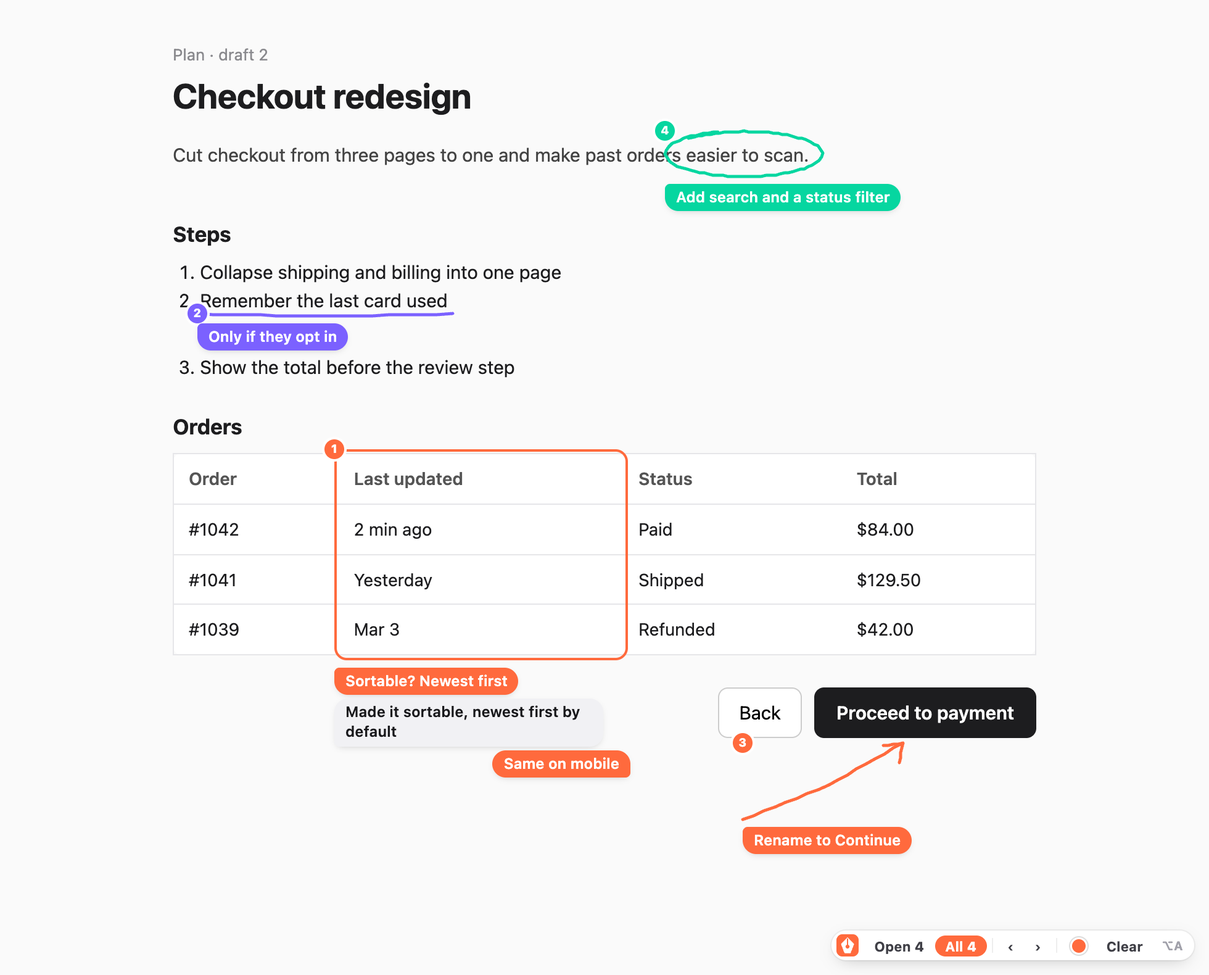
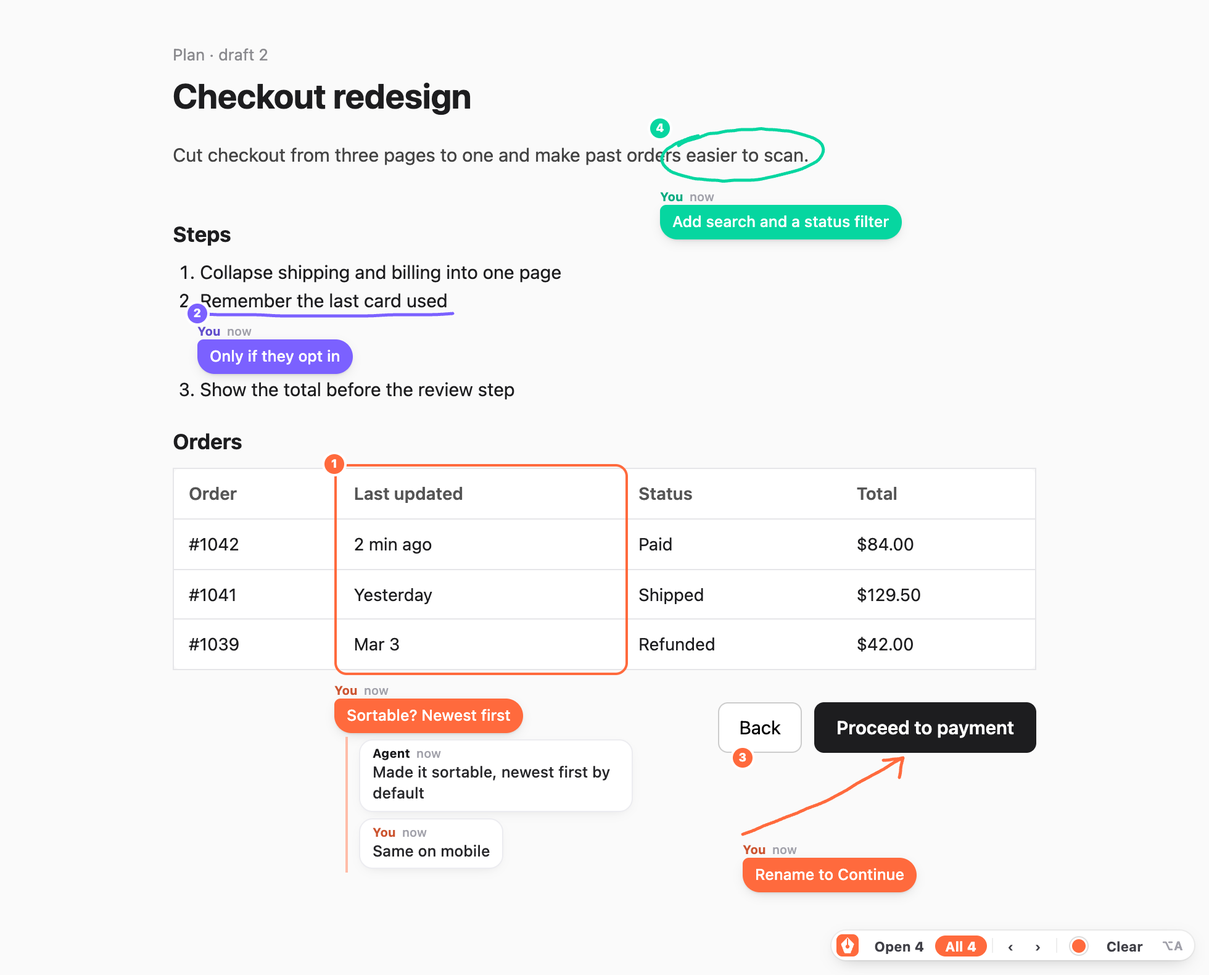
Thread rail for replies, smoother strokes, README hero
- Threads: the note stays a bubble in the mark's color; agent replies and
  follow-ups hang off a rail below it, labeled You or Agent with how long
  ago each was sent. The reply box lines up with the rail.
- Freehand strokes render as smooth curves through the recorded points
  (saved points are unchanged).
- README: new hero (dashboard plus agent terminal) as docs/hero.png, so
  cached copies of the old screenshot.png don't show; checkout sample
  re-rendered with a hand-drawn circle.
- design/bubble-options.html: the thread study (#4 chosen).

diff --git a/design/bubble-options.html b/design/bubble-options.html
@@ -1,0 +1,224 @@
+<!doctype html>
+<html lang="en">
+<head>
+<meta charset="utf-8">
+<meta name="viewport" content="width=device-width, initial-scale=1">
+<title>annot bubble variations</title>
+<link rel="preconnect" href="https://fonts.googleapis.com">
+<link rel="preconnect" href="https://fonts.gstatic.com" crossorigin>
+<link href="https://fonts.googleapis.com/css2?family=Inter:wght@500;700;800&display=swap" rel="stylesheet">
+<style>
+  /* ---------- review page ---------- */
+  :root { --ink: #1d1d1f; --muted: #6e6e73; --line: #e5e5ea; --page: #f5f5f7; --mc: #ff6a3d; --mon: #fff; }
+  * { box-sizing: border-box; }
+  body { margin: 0; background: var(--page); color: var(--ink); font: 14px/1.45 Inter, system-ui, sans-serif; }
+  header { max-width: 1180px; margin: 0 auto; padding: 32px 20px 8px; }
+  h1 { font: 800 26px/1.2 Inter, sans-serif; margin: 0 0 6px; letter-spacing: -.01em; }
+  .lede { margin: 0; color: var(--muted); max-width: 800px; }
+  .colors { display: flex; align-items: center; gap: 8px; margin-top: 14px; font-size: 12.5px; color: var(--muted); }
+  .colors button { all: unset; width: 16px; height: 16px; border-radius: 50%; cursor: pointer; }
+  .colors button.sel { box-shadow: 0 0 0 2px var(--page), 0 0 0 3.5px var(--ink); }
+  .colors button:focus-visible { outline: 2px solid var(--ink); outline-offset: 3px; }
+  main { max-width: 1180px; margin: 0 auto; padding: 16px 20px 60px; display: grid; grid-template-columns: repeat(auto-fill, minmax(560px, 1fr)); gap: 16px; }
+  .card { background: #fff; border: 1px solid var(--line); border-radius: 16px; padding: 16px; }
+  .card h2 { font: 700 15px/1.2 Inter, sans-serif; margin: 0; display: flex; gap: 8px; align-items: baseline; }
+  .card h2 .n { font: 700 11px Inter, sans-serif; color: var(--muted); min-width: 18px; }
+  .card p { margin: 3px 0 12px 26px; color: var(--muted); font-size: 12.5px; min-height: 36px; }
+
+  /* ---------- the mock page every card shows ---------- */
+  .scene { position: relative; width: 528px; height: 470px; margin: 0 auto; border-radius: 12px; background: #fff; box-shadow: 0 0 0 1px #ececef;
+    color: #27272a; font: 13px/1.4 system-ui, sans-serif; }
+  .mock > * { position: absolute; }
+  .mock h3 { left: 20px; top: 12px; margin: 0; font: 650 17px/1.3 system-ui, sans-serif; }
+  .mock .btn { left: 360px; top: 50px; width: 100px; height: 30px; display: grid; place-items: center; border: 1px solid #d4d4d8; border-radius: 7px; font-size: 12.5px; font-weight: 500; }
+  .mock table { left: 20px; top: 50px; width: 270px; border-collapse: collapse; font-size: 12.5px; }
+  .mock th, .mock td { height: 28px; padding: 0 10px; text-align: left; border-top: 1px solid #f0f0f1; }
+  .mock th { border-top: 0; background: #fafafa; color: #71717a; font-weight: 600; }
+  .mock td:last-child, .mock th:last-child { text-align: right; }
+  .mock col.o { width: 80px; } .mock col.d { width: 100px; } .mock col.t { width: 90px; }
+
+  /* ---------- overlay: boxes and numbers as in extension/overlay.js ---------- */
+  .box { position: absolute; box-sizing: border-box; border: 2px solid var(--c); border-radius: 10px; }
+  .num { position: absolute; width: 16px; height: 16px; margin: -8px 0 0 -8px; border-radius: 50%; box-shadow: 0 0 0 2px #fff;
+    background: var(--c); color: var(--on); font: 800 9.5px/16px system-ui, sans-serif; text-align: center; }
+  .mark.resolved .box, .mark.resolved .num { opacity: .45; }
+
+  /* ---------- Today: the thread exactly as overlay.js draws it ---------- */
+  .thread { position: absolute; display: flex; flex-direction: column; align-items: flex-start; gap: 3px; width: max-content; max-width: 240px;
+    font: 600 12px/1.35 system-ui, sans-serif; --ub: var(--c); --ut: var(--on); }
+  .thread.wide { width: 240px; }
+  .resolved .thread { --ub: color-mix(in srgb, var(--c) 28%, #fff); --ut: #3f3f46; }
+  .msg, .body { display: contents; }
+  .av, .who, .more, .head { display: none; }
+  .b { position: relative; max-width: 200px; padding: 3px 9px; border-radius: 11px; box-shadow: 0 2px 6px -3px rgba(0,0,0,.25); white-space: pre-wrap; overflow-wrap: anywhere; }
+  .you .b { background: var(--ub); color: var(--ut); }
+  .you.first .b { border-top-left-radius: 4px; }
+  .you:not(.first) .b { align-self: flex-end; border-bottom-right-radius: 4px; }
+  .agent .b { border-bottom-left-radius: 4px; background: #f1f1f4; color: #18181b; }
+  .state { color: #16a34a; font-size: 10px; font-weight: 800; }
+
+  /* ---------- r: the refined base most variations build on ---------- */
+  .r .thread { gap: 4px; font: 500 12.5px/1.4 system-ui, sans-serif; }
+  .r .thread.wide { width: 244px; }
+  .r .b { max-width: 204px; padding: 5px 10px 5px; border-radius: 14px; box-shadow: 0 1px 1px rgba(0,0,0,.05), 0 3px 10px -4px rgba(0,0,0,.22); }
+  .r .you.first .b { border-top-left-radius: 5px; }
+  .r .you:not(.first) .b { border-bottom-right-radius: 5px; }
+  .r .agent .b { border-bottom-left-radius: 5px; background: #fff; color: #27272a; box-shadow: 0 0 0 1px #e6e6ea, 0 3px 10px -4px rgba(0,0,0,.16); }
+  .r .state { display: inline-flex; align-items: center; gap: 3px; margin-top: 1px; padding: 1px 8px 1px 6px; border-radius: 999px;
+    background: #e8f8ee; color: #15803d; font: 700 10.5px/1.5 system-ui, sans-serif; }
+
+  /* 2 Pointer: the first note points up at the mark it belongs to. */
+  .v2 .thread { margin-top: 6px; }
+  .v2 .you.first .b { border-top-left-radius: 14px; }
+  .v2 .you.first .b::before { content: ''; position: absolute; left: 11px; top: -7px; border: 7px solid transparent; border-top: 0; border-bottom-color: var(--ub); }
+
+  /* 3 Agent badge: a small terminal badge beside every agent reply. */
+  .v3 .agent { display: flex; align-items: flex-end; gap: 5px; }
+  .v3 .av { display: grid; place-items: center; flex: none; width: 18px; height: 18px; margin-bottom: 2px; border-radius: 50%; background: #1d1d1f; color: #fff; }
+  .v3 .av svg { width: 12px; height: 12px; }
+  .v3 .resolved .av { background: #16a34a; }
+  .v3 .state { margin-left: 23px; }
+
+  /* 4 Thread rail: the note is the bubble; replies hang off a rail in the mark's color, labeled and timed. */
+  .v4 .thread { gap: 0; font: 500 12.5px/1.4 system-ui, sans-serif; }
+  .v4 .thread.wide { width: max-content; }
+  .v4 .b { padding: 5px 10px; border-radius: 14px; box-shadow: 0 1px 1px rgba(0,0,0,.05), 0 3px 10px -4px rgba(0,0,0,.22); }
+  .v4 .you.first .b { margin-bottom: 3px; border-top-left-radius: 5px; }
+  .v4 .msg:not(.first) { display: block; margin-left: 9px; padding: 3px 0 4px 10px; border-left: 2px solid color-mix(in srgb, var(--c) 45%, #fff); }
+  .v4 .msg:not(.first) .body { display: block; width: max-content; max-width: 200px; padding: 4px 10px 5px; border-radius: 10px; background: #fff; box-shadow: 0 0 0 1px #ececf0, 0 3px 10px -5px rgba(0,0,0,.18); }
+  .v4 .msg:not(.first) .b { all: unset; display: block; white-space: pre-wrap; color: #27272a; }
+  .v4 .who { display: block; font: 700 10px/1.3 system-ui, sans-serif; color: #18181b; }
+  .v4 .you .who { color: color-mix(in srgb, var(--c) 80%, #000); }
+  .v4 time { margin-left: 5px; color: #a1a1aa; font-weight: 500; }
+  .v4 .resolved .msg:not(.first) { border-left-color: #d4d4d8; }
+  .v4 .state { margin: 0 0 0 9px; padding: 3px 0 0 12px; border-left: 2px solid #d4d4d8; }
+
+  /* 5 Comment card: one card per mark, with its status on top. */
+  .v5 .thread { gap: 0; width: 256px; padding: 3px 0 2px; border-radius: 12px; background: #fff;
+    box-shadow: inset 0 3px 0 var(--c), 0 0 0 1px #e6e6ea, 0 8px 20px -10px rgba(0,0,0,.3); font: 500 12px/1.4 system-ui, sans-serif; }
+  .v5 .resolved .thread { width: max-content; max-width: 168px; box-shadow: inset 0 3px 0 color-mix(in srgb, var(--c) 40%, #fff), 0 0 0 1px #e6e6ea, 0 8px 20px -10px rgba(0,0,0,.3); }
+  .v5 .head { display: flex; align-items: center; gap: 6px; padding: 7px 10px 2px; color: #a1a1aa; font: 600 10.5px/1.4 system-ui, sans-serif; }
+  .v5 .chip { padding: 0 7px; border-radius: 999px; background: color-mix(in srgb, var(--c) 14%, #fff); color: color-mix(in srgb, var(--c) 75%, #000); font-weight: 700; }
+  .v5 .chip.ok { background: #e8f8ee; color: #15803d; }
+  .v5 .msg { display: block; align-self: stretch; padding: 6px 10px; }
+  .v5 .msg + .msg { border-top: 1px solid #f1f1f3; }
+  .v5 .body { display: block; }
+  .v5 .who { display: block; color: #18181b; font: 700 10.5px/1.4 system-ui, sans-serif; }
+  .v5 .you .who { color: color-mix(in srgb, var(--c) 80%, #000); }
+  .v5 time { margin-left: 5px; color: #a1a1aa; font-weight: 500; }
+  .v5 .b { all: unset; display: block; white-space: pre-wrap; color: #3f3f46; }
+  .v5 .you.first .b { color: #18181b; font-weight: 600; font-size: 12.5px; }
+  .v5 .state { display: none; }
+
+  /* 6 Tinted: agent replies take a wash of the mark's color, so each thread reads as one piece. */
+  .v6 .agent .b { background: color-mix(in srgb, var(--c) 10%, #fff); color: #27272a;
+    box-shadow: 0 0 0 1px color-mix(in srgb, var(--c) 24%, #fff), 0 3px 10px -4px rgba(0,0,0,.14); }
+  .v6 .resolved .agent .b { background: #f6f6f7; box-shadow: 0 0 0 1px #e6e6ea; }
+
+  /* 7 Outline: your notes are outlined like the box; the agent's replies are solid ink, so new answers stand out. */
+  .v7 .you .b { background: #fff; color: #18181b; box-shadow: inset 0 0 0 1.5px var(--c), 0 3px 10px -4px rgba(0,0,0,.18); }
+  .v7 .agent .b { background: #1d1d1f; color: #f4f4f5; box-shadow: 0 3px 10px -4px rgba(0,0,0,.35); }
+  .v7 .resolved .you .b { color: #52525b; box-shadow: inset 0 0 0 1.5px color-mix(in srgb, var(--c) 40%, #fff); }
+  .v7 .resolved .agent .b { background: #52525b; }
+
+  /* 8 Latest only: the note and the last exchange; older messages fold into a pill. */
+  .v8 .old { display: none; }
+  .v8 .expanded .old { display: contents; }
+  .v8 .more { all: unset; display: block; margin: 0 0 0 10px; padding: 0 8px; border-radius: 999px; background: #fff; color: #71717a; cursor: pointer;
+    box-shadow: 0 0 0 1px #e4e4e7; font: 700 10px/17px system-ui, sans-serif; }
+  .v8 .more:hover { color: #18181b; }
+  .v8 .more:focus-visible { outline: 2px solid var(--c); outline-offset: 2px; }
+</style>
+</head>
+<body>
+<header>
+  <h1>annot: conversation bubbles</h1>
+  <p class="lede">The thread under a mark, eight ways. Every card shows the same page: <b>#2</b> is open, with two rounds of back and forth and a new follow-up from you; <b>#3</b> is resolved. <b>Today</b> was the overlay before; <b>#4 Thread rail is the one chosen</b> and is what the overlay draws now. 1 refines it (lighter type, softer shadows, white agent replies, a resolved chip) and most of the others build on 1. Nothing here changes what the agent sees; it's all drawing.</p>
+  <div class="colors" id="colors">Color of #2:</div>
+</header>
+<main id="cards"></main>
+<script>
+  const V = [
+    { key: '', name: 'Today', n: 'now', idea: 'As overlay.js draws it: heavy 600 type, gray agent replies, a green "Resolved" line.' },
+    { key: 'r', name: 'Refined', idea: 'Same layout. Regular-weight type, a bit more padding and rounder corners, a softer shadow, white agent replies with a hairline, and a resolved chip.' },
+    { key: 'r v2', name: 'Pointer', idea: 'The first note gets a small pointer up at its mark, so it reads as attached to it rather than floating near it.' },
+    { key: 'r v3', name: 'Agent badge', idea: 'A small terminal badge beside each agent reply, so who said what never depends on left/right alignment. Turns green once resolved.' },
+    { key: 'v4', name: 'Thread rail', idea: 'Chosen. Only your note is a bubble. Replies hang off a rail in the mark\'s color, each labeled You or Agent with its time, like a chat thread.' },
+    { key: 'v5', name: 'Comment card', idea: 'One card per mark with a colored top edge, a status chip and a message count; each message labeled and timed. Most document-like.' },
+    { key: 'r v6', name: 'Tinted', idea: 'Agent replies take a light wash of the mark\'s color, so with several threads near each other you can tell which belongs to which.' },
+    { key: 'r v7', name: 'Outline', idea: 'Flips the emphasis: your notes are outlined like the box, and the agent\'s replies are solid ink, so new answers are what you see first.' },
+    { key: 'r v8', name: 'Latest only', idea: 'Shows your note and the last exchange; older messages fold into a pill (click it). Keeps long threads from covering the page.' },
+  ];
+  // Marks: page coordinates of the box, then the conversation. Times are what each message's `at` would show.
+  const MARKS = [
+    { n: 2, box: [94, 44, 112, 124], c: 'var(--mc)', on: 'var(--mon)', status: 'open', msgs: [
+      ['you', 'Show Nov 24, not 2026-11-24', '2h'],
+      ['agent', 'Switched the Date column to month and day.', '2h'],
+      ['you', 'Keep the year for older orders', '1h'],
+      ['agent', 'Done: orders from past years show the year too.', '58m'],
+      ['you', 'And right-align it like Total', 'now'],
+    ] },
+    { n: 3, box: [355, 45, 110, 40], c: '#7b61ff', on: '#fff', status: 'resolved', msgs: [
+      ['you', 'Call it Download CSV', '3h'],
+      ['agent', 'Done, in the toolbar.', '3h'],
+    ] },
+  ];
+  const AV = '<i class="av"><svg viewBox="0 0 16 16" aria-hidden="true"><path d="M3.5 4.5 7 8l-3.5 3.5M8.5 12h4" fill="none" stroke="currentColor" stroke-width="1.9" stroke-linecap="round" stroke-linejoin="round"/></svg></i>';
+  const MOCK = `<div class="mock"><h3>Orders</h3><div class="btn">Export CSV</div>
+    <table><colgroup><col class="o"><col class="d"><col class="t"></colgroup>
+    <tr><th>Order</th><th>Date</th><th>Total</th></tr>
+    <tr><td>#1042</td><td>2026-11-24</td><td>$184.00</td></tr>
+    <tr><td>#1041</td><td>2026-11-23</td><td>$92.50</td></tr>
+    <tr><td>#1040</td><td>2025-12-30</td><td>$1,240.00</td></tr></table></div>`;
+
+  function mark(m) {
+    const [x, y, w, h] = m.box, last = m.msgs.length - 1;
+    const old = (i) => i > 0 && i < last - 1; // all but the note and the last exchange
+    const nOld = m.msgs.filter((_, i) => old(i)).length;
+    const msgs = m.msgs.map(([who, text, at], i) =>
+      (i === 1 && nOld ? `<button class="more" aria-expanded="false">${nOld} earlier</button>` : '') +
+      `<div class="msg ${who}${i ? '' : ' first'}${old(i) ? ' old' : ''}">${who === 'agent' ? AV : ''}<div class="body">` +
+      `<span class="who">${who === 'agent' ? 'Agent' : 'You'}<time>${at}</time></span><div class="b">${text}</div></div></div>`).join('');
+    const done = m.status === 'resolved';
+    return `<div class="mark ${m.status}" style="--c:${m.c};--on:${m.on}">
+      <div class="box" style="left:${x}px;top:${y}px;width:${w}px;height:${h}px"></div>
+      <div class="num" style="left:${x}px;top:${y}px">${m.n}</div>
+      <div class="thread${m.msgs.some(([who], i) => i && who === 'you') ? ' wide' : ''}" style="left:${x}px;top:${y + h + 6}px">
+        <div class="head"><span class="chip${done ? ' ok' : ''}">${done ? '✓ Resolved' : 'Open'}</span>${m.msgs.length} messages</div>
+        ${msgs}${done ? '<div class="state">✓ Resolved</div>' : ''}
+      </div></div>`;
+  }
+
+  document.getElementById('cards').innerHTML = V.map((v, i) => `
+    <section class="card">
+      <h2><span class="n">${v.n ?? i}</span>${v.name}</h2>
+      <p>${v.idea}</p>
+      <div class="scene ${v.key}">${MOCK}${MARKS.map(mark).join('')}</div>
+    </section>`).join('');
+
+  document.addEventListener('click', (e) => {
+    const more = e.target.closest('.more');
+    if (!more) return;
+    const open = more.closest('.thread').classList.toggle('expanded');
+    more.setAttribute('aria-expanded', open);
+    more.textContent = open ? 'Show less' : `${more.closest('.thread').querySelectorAll('.old').length} earlier`;
+  });
+
+  // The overlay's palette, plus a light yellow to check dark text on light colors (same rule as onColor in overlay.js).
+  const onColor = (hex) => { const [r, g, b] = [1, 3, 5].map((i) => parseInt(hex.slice(i, i + 2), 16)); return .299 * r + .587 * g + .114 * b > 170 ? '#1a1a1a' : '#fff'; };
+  const colors = document.getElementById('colors');
+  for (const hex of ['#ff6a3d', '#ff3d77', '#7b61ff', '#00a6fb', '#06d6a0', '#2b2d42', '#ffd60a']) {
+    const b = document.createElement('button');
+    b.style.background = hex;
+    b.title = b.ariaLabel = hex;
+    b.className = hex === '#ff6a3d' ? 'sel' : '';
+    b.onclick = () => {
+      document.documentElement.style.setProperty('--mc', hex);
+      document.documentElement.style.setProperty('--mon', onColor(hex));
+      for (const s of colors.querySelectorAll('button')) s.className = s === b ? 'sel' : '';
+    };
+    colors.append(b);
+  }
+</script>
+</body>
+</html>

diff --git a/extension/overlay.js b/extension/overlay.js
@@ -21,16 +21,20 @@
     /* Grows from its normal size, holds, then settles back. */
     @keyframes flash { 30%, 50% { transform: scale(1.8); box-shadow: 0 0 0 2px #fff, 0 0 0 6px rgba(0,0,0,.15); } }
     @media (prefers-reduced-motion: reduce) { .num.flash { animation: none; outline: 2px solid; outline-offset: 2px; } }
-    .thread { position: absolute; display: flex; flex-direction: column; align-items: flex-start; gap: 3px; width: max-content; max-width: 240px;
-      font: 600 12px/1.35 system-ui, sans-serif; }
-    .thread.wide { width: 240px; }
-    .b { max-width: 200px; padding: 3px 9px; border-radius: 11px; box-shadow: 0 2px 6px -3px rgba(0,0,0,.25); white-space: pre-wrap; overflow-wrap: anywhere; }
-    .you { background: var(--c); color: var(--on); }
-    .you.first { border-top-left-radius: 4px; }
-    .you:not(.first) { align-self: flex-end; border-bottom-right-radius: 4px; }
-    .agent { border-bottom-left-radius: 4px; background: #f1f1f4; color: #18181b; }
-    .resolved .you { background: color-mix(in srgb, var(--c) 28%, #fff); color: #3f3f46; }
-    .state { color: #16a34a; font-size: 10px; font-weight: 800; }
+    /* The thread: your note as a bubble in the mark's color, then replies and follow-ups on a rail below it. */
+    .thread { position: absolute; display: flex; flex-direction: column; align-items: flex-start; width: max-content; max-width: 240px;
+      color: #27272a; font: 500 12.5px/1.4 system-ui, sans-serif; }
+    .who { font: 700 10px/1.3 system-ui, sans-serif; color: #18181b; }
+    .you .who { color: color-mix(in srgb, var(--c) 80%, #000); }
+    .who time { margin-left: 5px; color: #a1a1aa; font-weight: 500; }
+    .b { max-width: 200px; white-space: pre-wrap; overflow-wrap: anywhere; }
+    .note .b { max-width: 204px; margin-bottom: 3px; padding: 5px 10px; border-radius: 5px 14px 14px; background: var(--c); color: var(--on);
+      box-shadow: 0 1px 1px rgba(0,0,0,.05), 0 3px 10px -4px rgba(0,0,0,.22); }
+    .resolved .note .b { background: color-mix(in srgb, var(--c) 28%, #fff); color: #3f3f46; }
+    .rail, .state { margin-left: 9px; padding: 3px 0 4px 10px; border-left: 2px solid color-mix(in srgb, var(--c) 45%, #fff); }
+    .resolved .rail, .state { border-left-color: #d4d4d8; }
+    .msg { width: max-content; max-width: 200px; padding: 4px 10px 5px; border-radius: 10px; background: #fff; box-shadow: 0 0 0 1px #ececf0, 0 3px 10px -5px rgba(0,0,0,.18); }
+    .state { padding: 3px 0 0 12px; color: #16a34a; font-size: 10px; font-weight: 800; }
     .catch { position: fixed; inset: 0; cursor: crosshair; }
     .editor { position: absolute; box-sizing: border-box; padding: 4px 9px; border: 2px solid; border-radius: 12px; background: #fff; color: #18181b;
       font: 600 12px/1.35 system-ui, sans-serif; resize: none; outline: none; overflow: hidden; box-shadow: 0 6px 18px -8px rgba(0,0,0,.3); }
@@ -104,6 +108,16 @@
   };
   const rgb = (hex) => [1, 3, 5].map((i) => parseInt(hex.slice(i, i + 2), 16));
   // Dark text on light colors, white on the rest.
+  // How long ago an ISO time was, short: now, 5m, 2h, 3d, then the date.
+  const ago = (iso) => {
+    const s = (Date.now() - Date.parse(iso)) / 1000;
+    if (!(s >= 0)) return '';
+    if (s < 60) return 'now';
+    if (s < 3600) return `${Math.floor(s / 60)}m`;
+    if (s < 86400) return `${Math.floor(s / 3600)}h`;
+    if (s < 7 * 86400) return `${Math.floor(s / 86400)}d`;
+    return new Date(iso).toLocaleDateString(undefined, { month: 'short', day: 'numeric' });
+  };
   const onColor = (hex) => {
     const [r, g, b] = rgb(hex);
     return 0.299 * r + 0.587 * g + 0.114 * b > 170 ? '#1a1a1a' : '#fff';
@@ -199,6 +213,18 @@
     renderPicker();
   }
 
+  // A stroke as a smooth curve: points closer than 4px are skipped, then a curve runs through the midpoints,
+  // so mouse jitter and whole-pixel points don't show as a shaky line. The saved points are unchanged.
+  function curve(points, dx, dy) {
+    const pts = [points[0]];
+    for (const p of points.slice(1)) if (Math.hypot(p[0] - pts.at(-1)[0], p[1] - pts.at(-1)[1]) >= 4) pts.push(p);
+    if (points.length > 1) pts[pts.length > 1 ? pts.length - 1 : 1] = points.at(-1); // always end where the pen lifted
+    const at = ([x, y]) => `${x + dx} ${y + dy}`;
+    let d = `M${at(pts[0])}`;
+    for (let i = 1; i < pts.length - 1; i++) d += ` Q${at(pts[i])} ${at([(pts[i][0] + pts[i + 1][0]) / 2, (pts[i][1] + pts[i + 1][1]) / 2])}`;
+    return pts.length > 1 ? `${d} L${at(pts.at(-1))}` : d;
+  }
+
   // Draws one mark and its conversation, moved along with its element; returns the conversation element, if any.
   function drawMark(svg, m, cls) {
     const c = m.color || DEFAULT_COLOR;
@@ -206,7 +232,7 @@
     if (m.kind === 'stroke') {
       for (const s of m.strokes) {
         const p = document.createElementNS(SVG, 'path');
-        p.setAttribute('d', `M${s.map(([x, y]) => `${x + dx} ${y + dy}`).join(' L')}`);
+        p.setAttribute('d', curve(s, dx, dy));
         p.style.stroke = c;
         if (cls) p.classList.add(cls);
         svg.append(p);
@@ -231,9 +257,14 @@
     const t = el('div', `thread ${cls}`, layer);
     t.style.setProperty('--c', c);
     t.style.setProperty('--on', onColor(c));
-    if (m.text) el('div', 'b you first', t).textContent = m.text;
-    for (const msg of thread) el('div', `b ${msg.from === 'agent' ? 'agent' : 'you'}`, t).textContent = msg.text;
-    if (thread.some((msg) => msg.from === 'user')) t.classList.add('wide');
+    const say = (parent, from, at, text) => {
+      const who = el('div', 'who', parent);
+      who.textContent = from === 'agent' ? 'Agent' : 'You';
+      if (at) el('time', '', who).textContent = ago(at);
+      el('div', 'b', parent).textContent = text;
+    };
+    if (m.text) say(el('div', 'note you', t), 'user', m.created, m.text);
+    for (const msg of thread) say(el('div', 'msg', el('div', `rail ${msg.from === 'agent' ? 'agent' : 'you'}`, t)), msg.from, msg.at, msg.text);
     if (m.status === 'resolved') el('div', 'state', t).textContent = '✓ Resolved';
     place(t, box.x, box.y + box.h + 6);
     hits.push({ m, x: t.offsetLeft, y: t.offsetTop, w: t.offsetWidth, h: t.offsetHeight });
@@ -408,7 +439,7 @@
   function openEditor() {
     const b = boxNow(draft);
     const top = draftThread ? draftThread.offsetTop + draftThread.offsetHeight + 4 : b.y + b.h + 6;
-    place(editor, b.x, top, 220);
+    place(editor, b.x + (draftThread ? 21 : 0), top, 220); // a reply lines up with the thread's rail
     editor.placeholder = draft.reply ? 'Reply…' : 'Add an optional note…';
     editor.hidden = tools.hidden = false;
     delBtn.hidden = !draft.id;

diff --git a/README.md b/README.md
@@ -4,7 +4,7 @@ The simplest browser annotation tool for human–machine communication.
 
 Draw on any page in your browser (Chrome, Brave or Edge) and type a note. Your coding agent reads the note along with exactly what you pointed at, makes the change, and replies under your mark.
 
-![annot on a sample dashboard: a circled number, a box around a chart with the agent's reply and a follow-up, an arrow at a button, a resolved scribble and a note being typed, next to a terminal where the agent works through the marks](docs/screenshot.png)
+![annot on a sample dashboard: a circled number, a box around a chart with the agent's reply and a follow-up, an arrow at a button, a resolved scribble and a note being typed, next to a terminal where the agent works through the marks](docs/hero.png)
 
 Say you're reviewing a plan your agent wrote as HTML, or the app it's building. Instead of describing "the date column in the orders table" in chat, you draw a box around it and type. Your agent (Claude Code, Codex, or anything that can run a command) runs `annot pull` and gets:
 - your note;
@@ -12,7 +12,7 @@ Say you're reviewing a plan your agent wrote as HTML, or the app it's building. 
 - the exact words you underlined, or what your arrow points at;
 - a screenshot.
 
-It makes the change and answers with `annot resolve`. The answer shows up as a bubble under your mark.
+It makes the change and answers with `annot resolve`. The answer shows up in a thread under your mark.
 
 - **Nothing to learn:** ⌥A, drag, type, Enter. Shift-drag to circle, underline or draw an arrow.
 - **Any page:** local HTML files, localhost, and hosted apps you're signed into.
@@ -45,7 +45,7 @@ Then, in your browser:
 | Enter / Shift+Enter | save / new line |
 | Esc | close the picker or confirmation, cancel the current mark, or leave annotate mode |
 | ⌘Z | remove the last stroke of a drawing you're still making, or undo your last save, delete or Clear on this page (refused if an agent has replied since). In a note with text, it undoes typing |
-| click a mark or its bubbles | edit its note. Once the agent has replied, type a follow-up instead; the original note stays as written. **delete** removes the mark |
+| click a mark or its thread | edit its note. Once the agent has replied, type a follow-up instead; the original note stays as written. **delete** removes the mark |
 | ‹ › in the bar | scroll to the previous / next mark, in page order |
 | color dot in the bar | pick a color, or one you've used before |
 | Clear in the bar | delete every mark on this page, after a confirmation |
@@ -85,9 +85,9 @@ Here's the arrow from the checkout sample above as `annot pull` returns it, trim
   "url": "http://localhost:5173/plan",
   "shape": "arrow",
   "text": "Rename to Continue",
-  "tip": { "x": 732, "y": 602, "dx": 0.87, "dy": -0.49 },
+  "tip": { "x": 732, "y": 614, "dx": 0.87, "dy": -0.49 },
   "elements": [
-    { "selector": "#next", "tag": "button", "text": "Proceed to payment", "rect": { "x": 660, "y": 557, "w": 180, "h": 41 } }
+    { "selector": "#next", "tag": "button", "text": "Proceed to payment", "rect": { "x": 660, "y": 569, "w": 180, "h": 41 } }
   ],
   "status": "open",
   "thread": [],

diff --git a/PLAN.md b/PLAN.md
@@ -7,8 +7,9 @@ A browser extension (Chrome, Brave, Edge) for marking up any page (agent-generat
 In:
 - Toggle annotate mode with ⌥A or the toolbar icon.
 - **Drag** to place a box, then type. Enter saves, Shift+Enter adds a new line, Esc cancels.
-- **Shift+drag** draws freehand (circle, underline, arrow). If you type right after a stroke, the text attaches to it.
-- Click a mark (or its bubbles) to edit its note; once the agent has replied, what you type is a follow-up added to the mark's thread. Delete removes the mark.
+- **Shift+drag** draws freehand (circle, underline, arrow), shown as smooth curves through the recorded points (the saved points are unchanged). If you type right after a stroke, the text attaches to it.
+- Under each mark, its thread: the note as a bubble in the mark's color, then the agent's replies and the user's follow-ups on a rail below it, each labeled You or Agent with how long ago it was sent.
+- Click a mark (or its thread) to edit its note; once the agent has replied, what you type is a follow-up added to the mark's thread. Delete removes the mark.
 - Each save also stores a screenshot of the viewport with the marks visible.
 - Marks are numbered per page. Corner bar (Bubbles style, kept small): the annot logo at its left end, filter **Open / All**, ‹ › to scroll to the previous/next mark in page order (its number pulses once the scroll stops), a color dot that opens a 2D picker (hue across, light to dark down) plus recently used colors, and **Clear** (delete every mark on the page, after a confirmation).
 - ⌘Z: while drawing, removes the last stroke; otherwise undoes the last save, delete or Clear on the page, one step at a time. It's refused if the mark changed since (an agent replied), so a reply is never lost. Typing in a note keeps its own undo.

diff --git a/skill.md b/skill.md
@@ -19,6 +19,6 @@ The user marks up pages in their browser. Each mark is a box or a freehand drawi
    - `box` is in page coordinates; `viewport` holds the window size and scroll position at the time. Raw stroke points are left out of the pull; `file` is the full mark if you need them.
    - `new: true` means added, edited or followed up since the last pull.
 3. Make the change, or answer the question.
-4. `annot resolve <id> "<one line: what you did or the answer>"`. The reply is added to the thread and shows as a bubble under the mark. Resolve only marks you addressed; leave the rest open and say why in chat.
+4. `annot resolve <id> "<one line: what you did or the answer>"`. The reply is added to the thread and shows under the mark. Resolve only marks you addressed; leave the rest open and say why in chat.
 
 `annot pull --all` includes resolved marks. `annot --help` shows usage. If `annot resolve` is refused by a sandbox, ask the user to approve it; `~/.annotations` needs to be writable.
